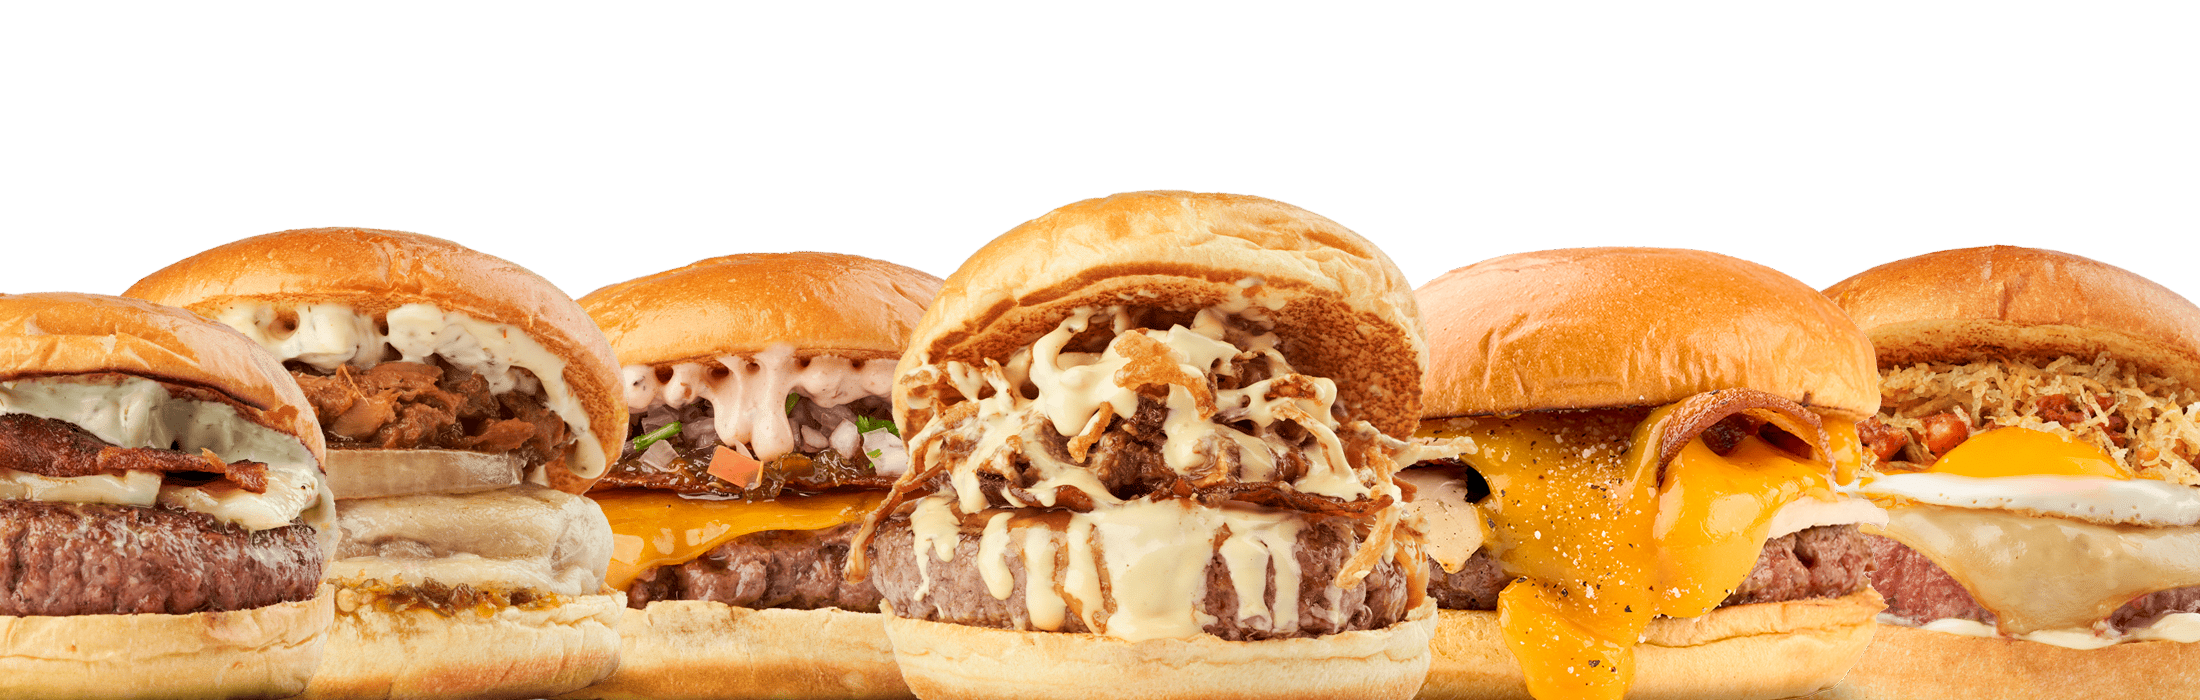
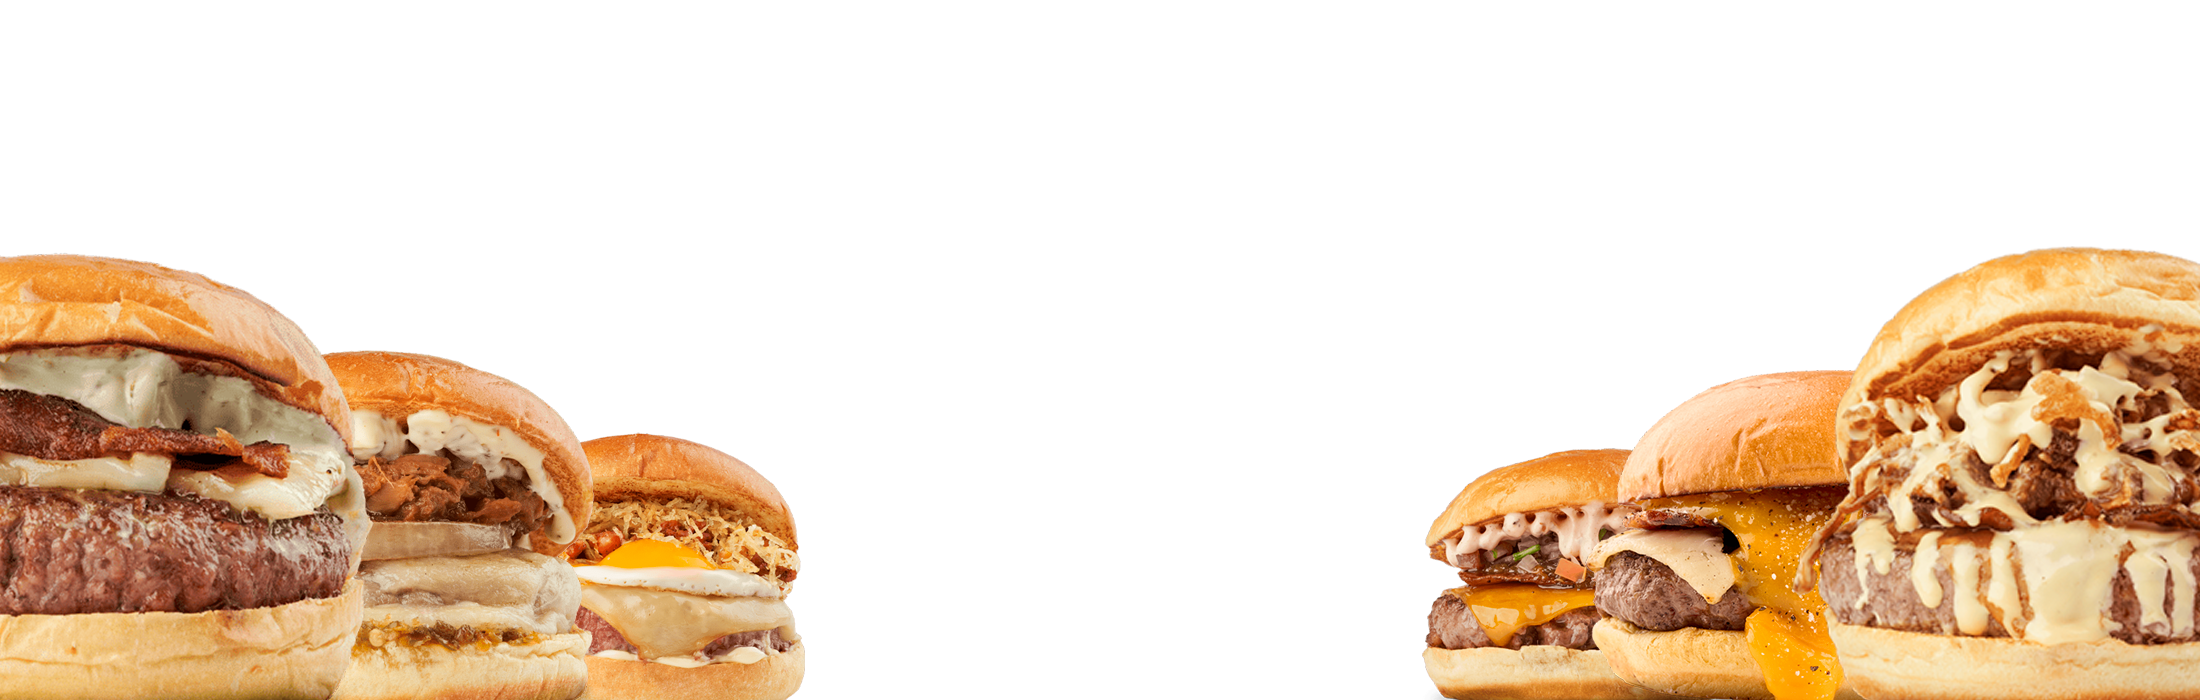
Cambios home - Confirmación solicitud

diff --git a/formulario/confirmacionSolicitud.html b/formulario/confirmacionSolicitud.html
@@ -1,0 +1,31 @@
+<!DOCTYPE html>
+<html lang="en">
+<head>
+    <meta charset="UTF-8">
+    <meta name="viewport" content="width=device-width, initial-scale=1.0">
+    <link rel="stylesheet" href="../css/normalize.css">
+    <link rel="stylesheet" href="../css/signIn.css">
+    <link rel="stylesheet" href="../fonts/material-icon/css/material-design-iconic-font.min.css">
+    <title>Rhapsody's Burgers</title>
+</head>
+<style>
+    .text-align-center{
+        text-align: center;
+    }
+</style>
+<body>
+    <main>
+        <div id="formulario">
+            <a href="../index.php"><img src="../img/Logo Rhapsody Negativo.svg" alt="" height="100px"></a>
+            <div class="signin-form text-align-center">
+                <h2>Solicitud enviada</h2>
+            </div>
+        </div>
+    </main>
+    <script>
+        setTimeout(function() {
+          window.location.href = "../index.php";
+        }, 3000);
+    </script>
+</body>
+</html>

diff --git a/css/index.css b/css/index.css
@@ -121,13 +121,12 @@ p{
     align-items: center;
     justify-content: flex-start;
     flex-wrap: nowrap;
-    /* min-height: 300px; */
-
-    /* background-image: url(../img/Hamburguesas/banner-carta.png);
+    min-height: 200px;
+    background-image: url(../img/Hamburguesas/banner-carta.png);
     object-fit: cover;
     background-repeat: no-repeat;
-    background-position: center;
-    background-size: cover;  */
+    background-position: bottom;
+    background-size: cover; 
 }
 
 .carta h2{

diff --git a/php/hacerReserva.php b/php/hacerReserva.php
@@ -21,7 +21,7 @@
     //Comprueba si existe sesion iniciada
     if (isset($_SESSION['Usu'])) {
         enviarMailCliente($correo, $nombreCliente, $nombreCompleto, $local, $fecha, $hora, $numPersonas);
-        header("Location: ../index.php");
+        header("Location: ../formulario/confirmacionSolicitud.html");
     } else {
         // No hay sesión iniciada, redirigir a la página de inicio de sesión
         header("Location: ../formulario/IniciarSesion/signIn.html");
